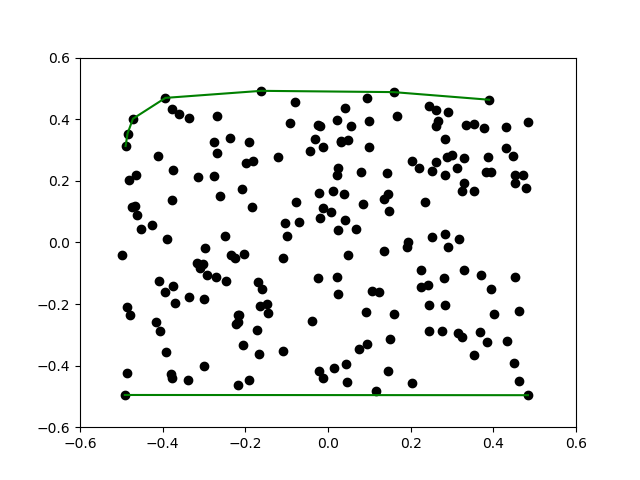
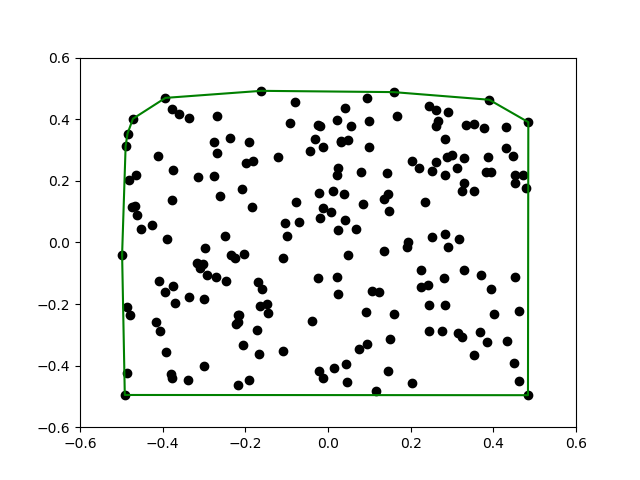
Working plots

Changed region(s): [[0.1875, 0.3125, 0.2188, 0.8125], [0.8125, 0.25, 0.8438, 0.7188], [0.7812, 0.2188, 0.8125, 0.25]]

diff --git a/plotKPS.py b/plotKPS.py
@@ -50,8 +50,8 @@ if __name__=='__main__':
 	plt.plot(pointsX,pointsY,'g')
 	# plt.plot(pointsXLow,pointsYLow,'g')
 	# plt.savefig(os.getcwd()+'/plotsKPS/'+str(num)+'/plotLOJM.png')
-	plt.show()
-	# plt.savefig(os.getcwd()+'/plotsKPS/'+str(num)+'/plotFullJM.png')
+	#plt.show()
+	plt.savefig(os.getcwd()+'/plotsKPS/'+str(num)+'/plotFullJM.png')
 
 	# pointsX=[]
 	# pointsY=[]
